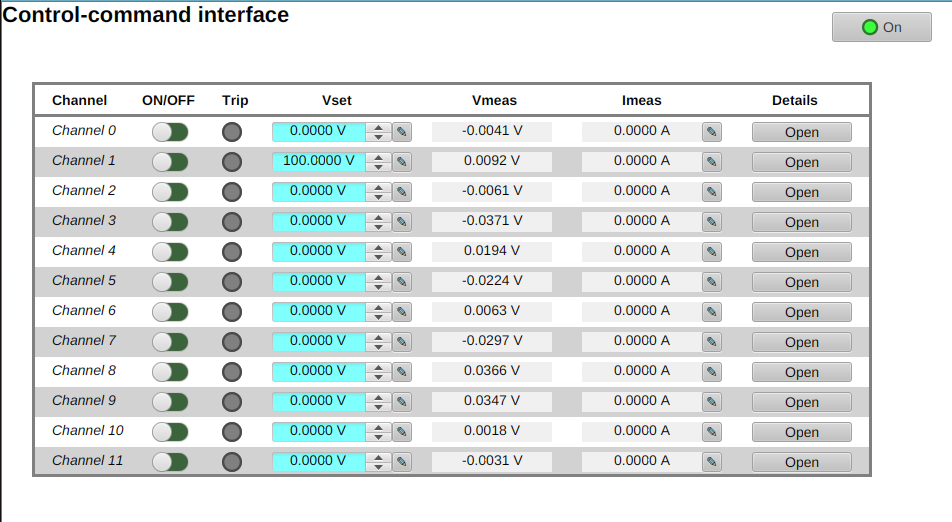
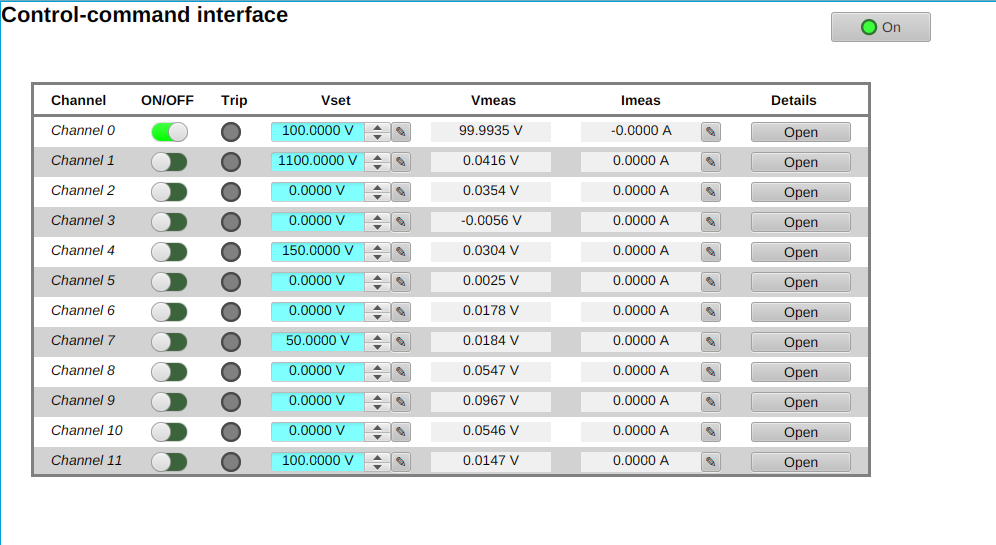
mise à jour des figures

diff --git a/index.html b/index.html
@@ -240,7 +240,7 @@
               <aside class="callout warn"><strong>Attention</strong><p>Ne changez pas le coefficient VTC sans vérifier que l'option matérielle et le capteur de température sont présents.</p></aside>
             </div>
             <figure class="image-card">
-              <img src="images/voltage_settings.png" alt="Capture reelle de la fenetre Voltage settings du canal 0" data-full="images/voltage_settings.png">
+              <img src="images/open_voltage_settings.png" alt="Capture reelle de la fenetre Voltage settings du canal 0" data-full="images/open_voltage_settings.png">
               <figcaption>Fenêtre Voltage réelle : consigne, mesure, limites et vitesses de rampe du canal.</figcaption>
             </figure>
             <a class="next-link" href="#reglage-courant">Chapitre suivant : Réglage du courant</a>
@@ -278,7 +278,7 @@
               <aside class="callout warn"><strong>Attention</strong><p>Une augmentation de <strong>Current Set</strong> ne doit pas servir à contourner un défaut ou une fuite réelle.</p></aside>
             </div>
             <figure class="image-card">
-              <img src="images/current_settings.png" alt="Capture reelle de la fenetre Current settings du canal 0" data-full="images/current_settings.png">
+              <img src="images/open_current_settings.png" alt="Capture reelle de la fenetre Current settings du canal 0" data-full="images/open_current_settings.png">
               <figcaption>Fenêtre Current réelle : limites, mesures, rampes et paramètres de Trip.</figcaption>
             </figure>
             <a class="next-link" href="#vue-detaillee">Chapitre suivant : Vue détaillée</a>
@@ -296,8 +296,8 @@
                 <tr><td>État du canal</td><td>Vue synthétique de l'état du canal dans le bloc States.</td></tr>
                 <tr><td>ON réel</td><td>Retour matériel indiquant si le canal est réellement activé, indépendamment de la commande demandée.</td></tr>
                 <tr><td>Trip</td><td>Voyant du bloc Alarmes signalant un déclenchement de sécurité.</td></tr>
-                <tr><td>Current Limit</td><td>Voyant indiquant que la limite de courant est atteinte ou active.</td></tr>
-                <tr><td>Voltage Limit</td><td>Voyant indiquant que la limite de tension est atteinte ou active.</td></tr>
+                <tr><td>Current Limit</td><td>Voyant indiquant que la limite de courant est atteinte.</td></tr>
+                <tr><td>Voltage Limit</td><td>Voyant indiquant que la limite de tension est atteinte.</td></tr>
                 <tr><td>Status</td><td>État interprété par l'interface à partir des PV du canal.</td></tr>
                 <tr><td>Status brut</td><td>Code d'état brut renvoyé par l'alimentation, utile lors d'un diagnostic avancé.</td></tr>
                 <tr><td>CV</td><td>Constant Voltage : le canal fonctionne en régulation de tension.</td></tr>
@@ -379,10 +379,6 @@
               <aside class="callout tip"><strong>Conseil</strong><p>Si une mesure ne se met pas à jour, vérifiez d'abord son mode de scan avant de chercher un défaut matériel.</p></aside>
               <aside class="callout warn"><strong>Attention</strong><p>Ne concluez pas qu'une valeur Phoebus est correcte tant que la PV n'a pas été validée côté EPICS ou iCS2.</p></aside>
             </div>
-            <figure class="image-card">
-              <img src="images/main.png" alt="Capture de l'ecran principal utilise pour diagnostiquer les PV et canaux" data-full="images/main.png">
-              <figcaption>L'écran principal permet d'identifier rapidement si le problème touche un canal ou l'ensemble des PV.</figcaption>
-            </figure>
             <a class="next-link" href="#glossaire">Chapitre suivant : Glossaire</a>
           </div>
         </section>